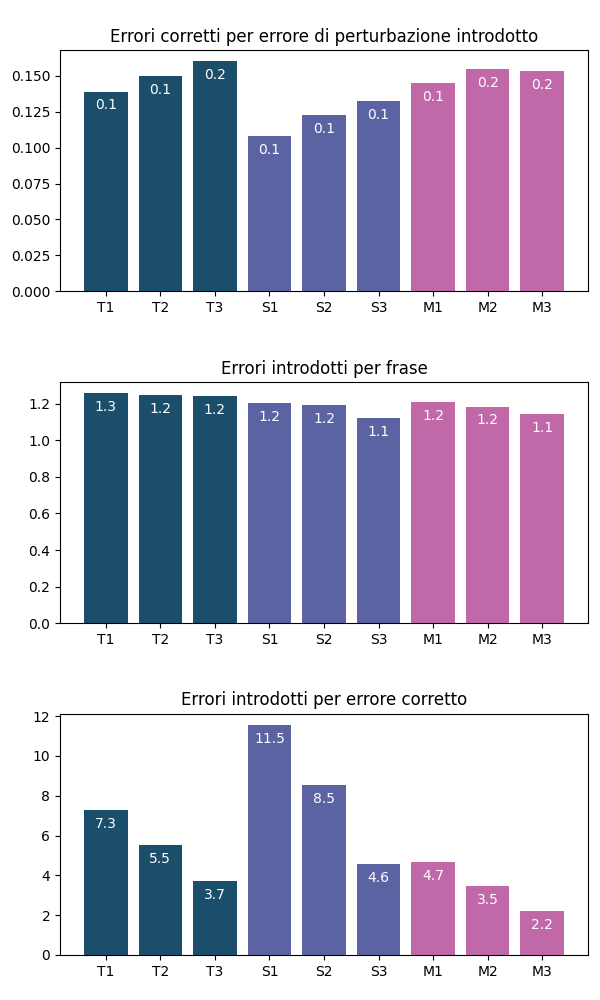
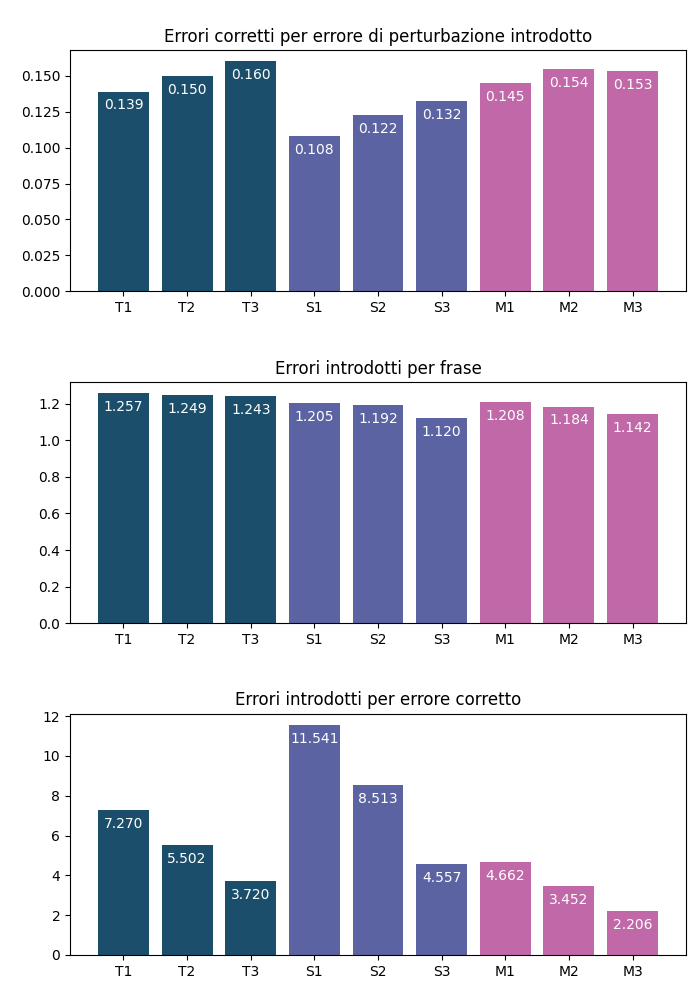
fix grafico

diff --git a/Valutazione/plot_results.py b/Valutazione/plot_results.py
@@ -2,7 +2,7 @@ import json
 import matplotlib.pyplot as plt
 
 fig_size = plt.rcParams["figure.figsize"]
-fig_size[0] = 6
+fig_size[0] = 7
 fig_size[1] = 10
 
 with open("./valutazione.json") as f:
@@ -60,7 +60,7 @@ def add_value_labels(ax, spacing=5):
             va = 'top'
 
         # Use Y value as label and format number with one decimal place
-        label = "{:.1f}".format(y_value)
+        label = "{:.3f}".format(y_value)
 
         # Create annotation
         ax.annotate(
